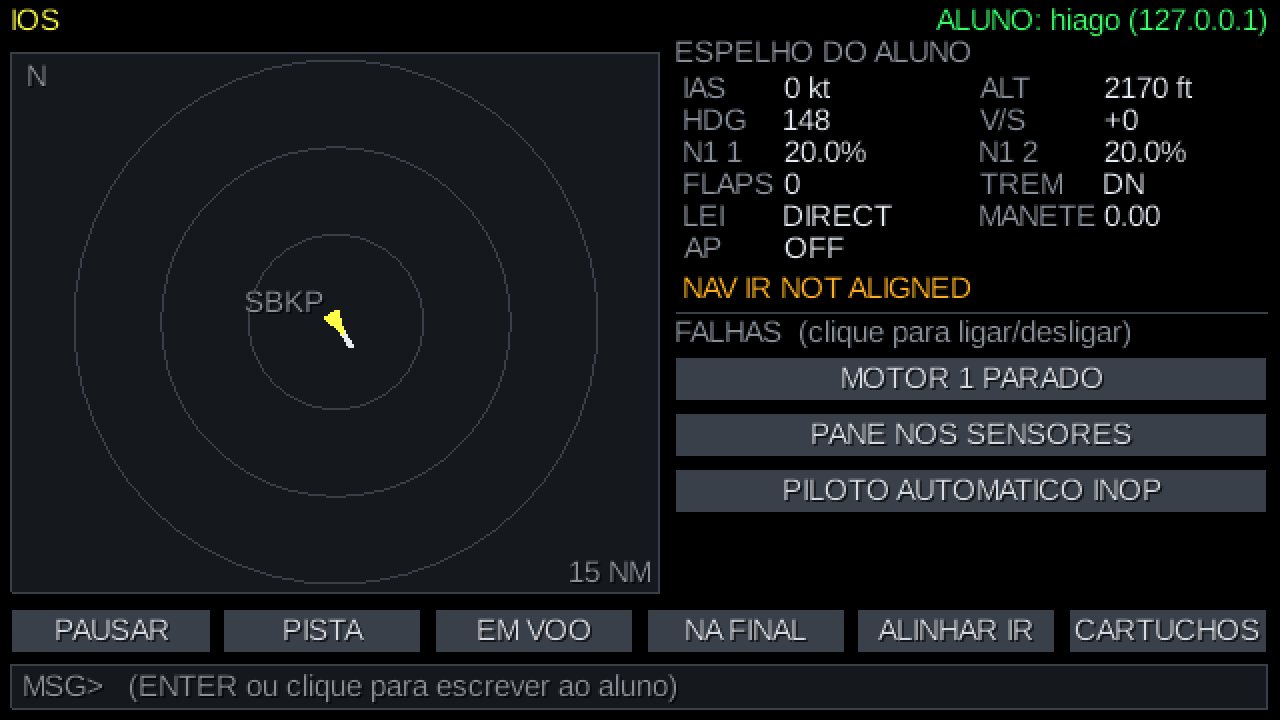
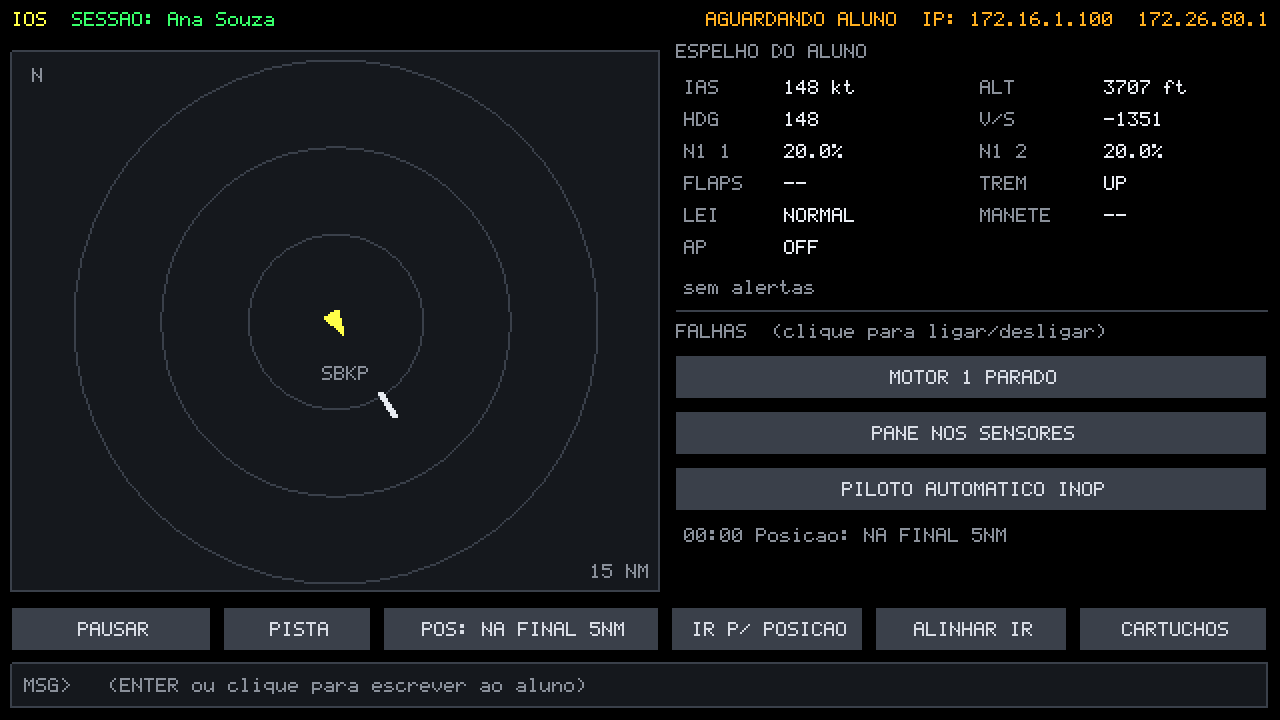
docs: README com cadastros, sessoes de treino e banco H2

diff --git a/README.md b/README.md
@@ -46,6 +46,7 @@ O simulador varre os leitores a cada ~0,7 s; o **grupo vem do manifesto**, entã
 | `RECUSADO: ARQUIVO CORROMPIDO` | o `.jar` ou o manifesto mudou depois de assinado |
 | `RECUSADO: ARQUIVO FALTANDO` | um arquivo listado no checksum sumiu |
 | `RECUSADO: SEM CHAVE PUBLICA` | o programa foi compilado sem a chave da fábrica |
+| `RECUSADO: CARTAO BLOQUEADO` | o cartão está `BLOQUEADO` ou `PERDIDO` no cadastro de cartões (conferido depois da assinatura) |
 
 Para conferir um cartão no terminal (Git Bash ou Linux): `sha256sum -c checksum.sha256` dentro da unidade.
 
@@ -88,6 +89,7 @@ Outras opções: `-Dsim.sd.drives=G,H,I` limita a busca a essas letras; `-Dsim.s
 - `cartridges`: software das caixas
 - `host`: o "supercomputador" (rack, cartuchos, loop de simulação, falhas, comandos do instrutor)
 - `net`: comunicação TCP entre o PC do instrutor e o do aluno
+- `dados`: cadastros e histórico de treino num banco H2 embutido (JDBC puro). O `host` não depende dele: só define as interfaces (`CardPolicy`, `SessionStore`) que o `dados` implementa
 - `cockpit`: o programa gráfico em LibGDX (título, rack, boot, cockpit, estação do instrutor)
 - `sd-dev/`: pastas que fingem ser cartões SD durante o desenvolvimento (e a fonte das imagens gravadas nos cartões). Elas não têm `.jar`, então não passam pela assinatura: o software vem do próprio programa
 
@@ -96,7 +98,7 @@ Outras opções: `-Dsim.sd.drives=G,H,I` limita a busca a essas letras; `-Dsim.s
 ```
 gradlew :cockpit:run      # o simulador (escolha SOLO, INSTRUTOR ou ALUNO na tela de título)
 gradlew :host:run --console=plain   # console de texto do host
-gradlew test              # testes (física, voo com piloto automático, falhas, rede)
+gradlew test              # testes (física, voo, falhas, rede, cadastros, formulário)
 ```
 
 ### Treinando em dois PCs (instrutor + aluno)
@@ -117,8 +119,8 @@ gradlew test              # testes (física, voo com piloto automático, falhas,
 |---|---|
 | PAUSAR / CONTINUAR | congela a simulação |
 | PISTA | volta o avião à cabeceira |
-| EM VOO | 8000 ft, 250 kt, mantendo a proa |
-| NA FINAL | alinhado com a pista 15, a 5 NM e 1600 ft |
+| POS: &lt;nome&gt; | escolhe uma das posições iniciais cadastradas (cada clique passa para a próxima) |
+| IR P/ POSICAO | põe o avião na posição escolhida (no chão: cabeceira; em voo: no prolongamento da pista 15, com os sensores alinhados) |
 | ALINHAR IR | alinhamento instantâneo dos sensores |
 | CARTUCHOS | desliga o avião e volta ao rack |
 | MOTOR 1 PARADO | apaga o motor 1 (alarme ENG 1 FAIL) |
@@ -176,6 +178,33 @@ Mouse no FCU: rodinha sobre SPD/HDG/ALT/V/S ajusta (SHIFT = x10), clique em AP1 
 3. A ~145 kt, segure **S** até o nariz subir ~10°
 4. Já no ar: **G** (recolhe o trem), **V** (flaps 0), **2** (CL)
 5. Ajuste ALT e HDG no FCU e clique **AP1** (no neo, também **A/THR**)
+
+## Cadastros e histórico de treino
+
+![Formulário de posição inicial com erros de validação](docs/img/cadastro-posicoes.png)
+
+| Nova sessão | Histórico com os eventos do voo |
+|---|---|
+| ![Tela NOVA SESSAO com aluno, instrutor e posição](docs/img/nova-sessao.png) | ![Sessão gravada com nota, observação e eventos](docs/img/sessoes.png) |
+
+O simulador guarda cadastros e o histórico das aulas num banco **H2 em arquivo** (não precisa instalar nada). Em desenvolvimento ele fica em `dados/sica.mv.db` (fora do Git); `-Dsim.db=pasta/arquivo` troca o lugar. O esquema é criado e atualizado sozinho pelos scripts `dados/src/main/resources/db/V1__schema.sql`, `V2__seed.sql`... (cada um roda uma vez; a tabela `versao_esquema` guarda quais já rodaram). O seed traz 2 alunos, 2 instrutores, os 6 cartões (SD-01 a SD-06) e 3 posições.
+
+Na tela de título, **4 CADASTROS** abre:
+
+| Cadastro | Regras |
+|---|---|
+| **Pessoas** (alunos e instrutores) | nome de 3 a 40 caracteres; matrícula obrigatória e única; e-mail válido se preenchido. Quem já tem sessões não é excluído, só desativado |
+| **Cartões** SD físicos | part number obrigatório; etiqueta opcional, até 10 caracteres e única. Cartão desconhecido lido com sucesso é cadastrado sozinho (sem etiqueta, para preencher); se já existe um cadastro manual com o mesmo part number e sem identificador, ele é adotado. Cada inserção no leitor conta uma leitura (data, contador e hash do `caixas.jar`). O identificador é o número de série do volume FAT32 |
+| **Posições iniciais** | nome único de 3 a 16 caracteres; altitude 0 a 41000 ft; proa 0 a 359; distância 0 a 100 NM. **No chão** = velocidade 0 e distância 0 (a altitude vira a do campo, 2170 ft, e fica bloqueada no formulário); **em voo** = 120 a 350 kt e pelo menos 500 ft acima do campo. Posição usada em sessões não pode ser excluída |
+| **Sessões de treino** | gravadas pelo simulador: aqui só se vê (com os eventos), avalia (nota de 0 a 10 com uma casa, ou vazia) e exclui |
+
+Teclas: **N** novo, **ENTER** editar, **DEL** excluir (pede confirmação), **ESC** voltar. No formulário: **setas cima/baixo** (ou TAB) trocam de campo, **esquerda/direita** mudam as opções, **ENTER** salva, **ESC** cancela. Os erros aparecem em vermelho embaixo do campo.
+
+**Sessão de treino.** Depois de montar o rack vem a tela **NOVA SESSAO**: aluno, instrutor (só no modo INSTRUTOR) e posição inicial. Depois do boot o avião vai para a posição escolhida e a sessão começa a ser gravada: os comandos do instrutor e os eventos automáticos (**DECOLAGEM**, **POUSO V/S -620 FT/MIN**, **CRASH**, cartucho removido/carregado) vão para o banco a cada segundo, então um travamento perde no máximo o último segundo. A sessão fecha ao voltar para o rack, para o título ou ao fechar o programa, com a duração simulada, se houve crash e os cartuchos usados.
+
+**Sem banco.** Se o arquivo não abrir (ex.: outro simulador no mesmo PC já está com ele), aparece **SEM BANCO** no título e na IOS e o erro vai para o console: o simulador funciona normalmente, só não grava e não confere o cadastro de cartões. O modo ALUNO nunca abre o banco (quem grava é o PC do instrutor).
+
+Atalhos para testar sem teclado: `-Dsim.posicao="EM VOO 8000"` escolhe a posição com `-Dsim.autostart`; `-Dsim.crud=posicoes,1,editar,velocidade=90,salvar` abre um cadastro, escolhe o item, troca um campo e tenta salvar.
 
 ## Fases
 
